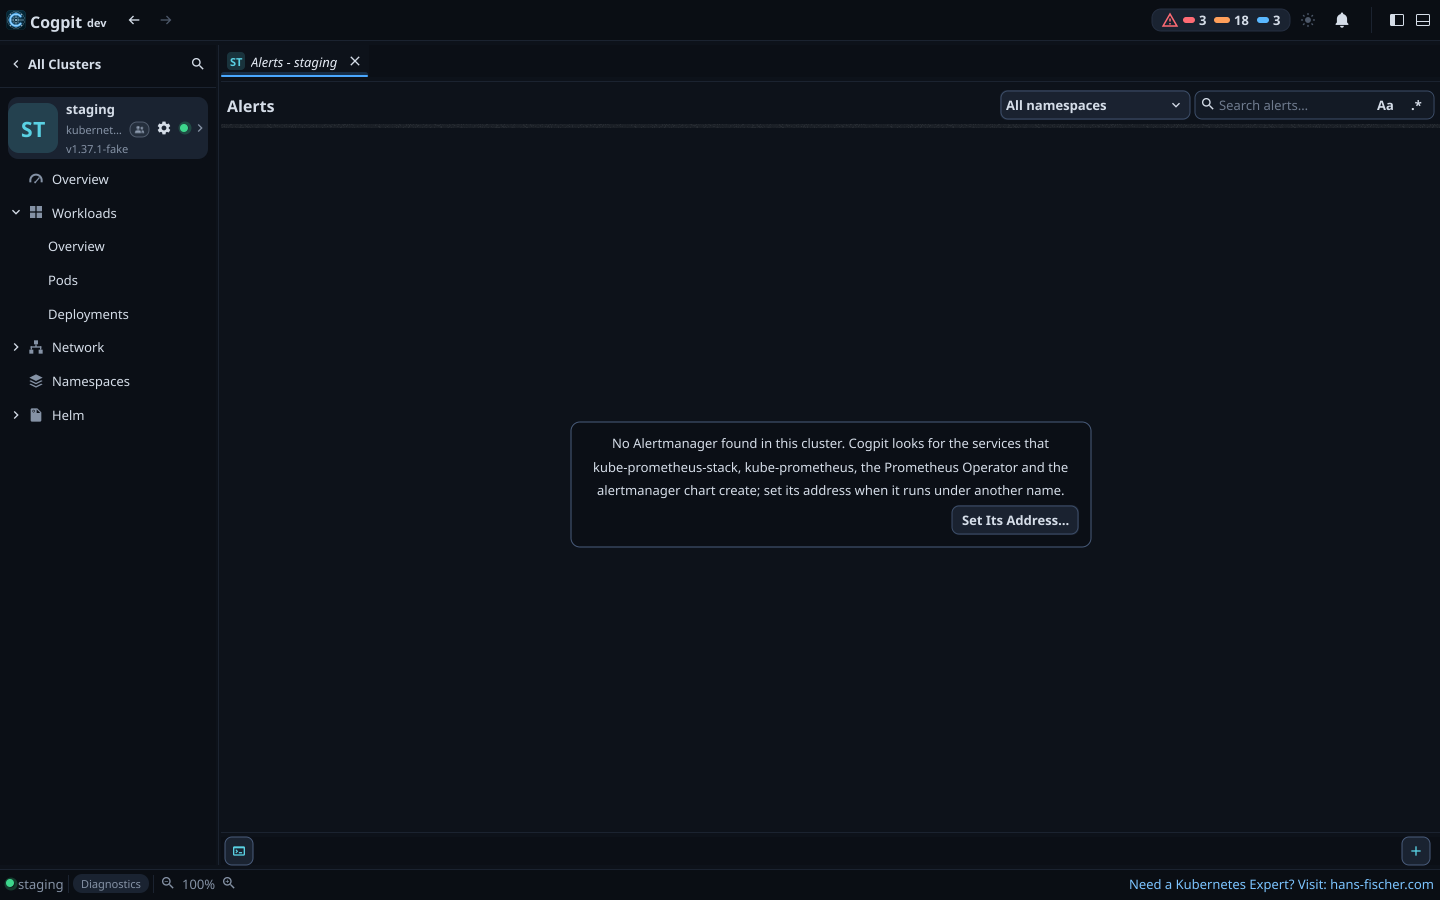
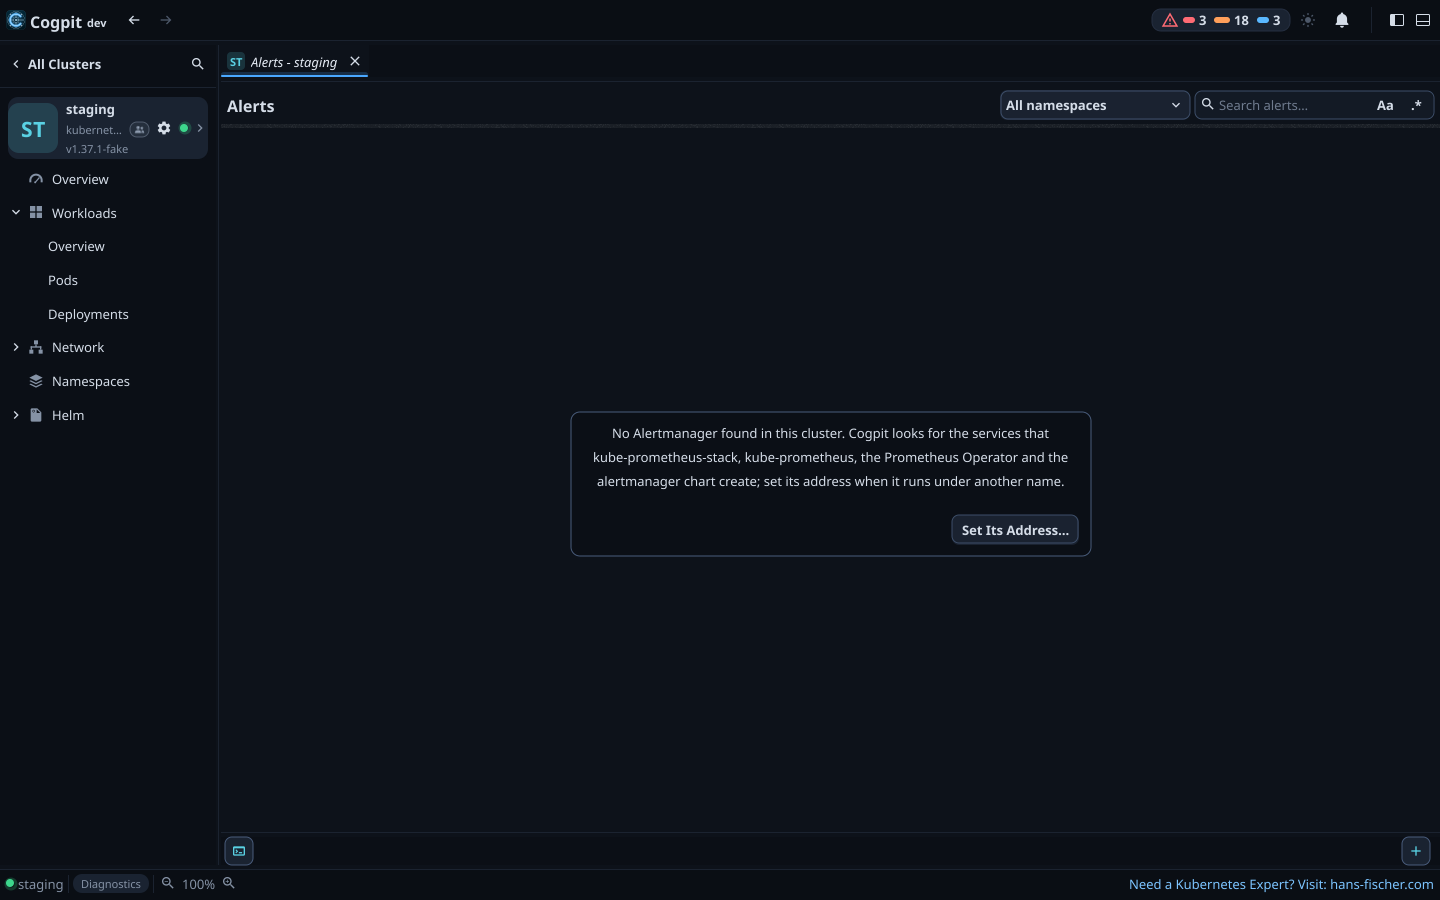
fix(alerts): a paragraph's space between the state box's text and its buttons

Changed region(s): [[0.4062, 0.4667, 0.75, 0.6222]]

diff --git a/internal/ui/fyneui/boardbox.go b/internal/ui/fyneui/boardbox.go
@@ -45,8 +45,8 @@ func boardBox(icon fyne.Resource, text string, tone fyne.ThemeColorName, buttons
 	for _, line := range wrapLines(text, inner, th.Size(theme.SizeNameText), fyne.TextStyle{}) {
 		rows = append(rows, container.NewCenter(newTextLine(line, tone, theme.SizeNameText, fyne.TextStyle{})))
 	}
-	if len(buttons) > 0 {
-		rows = append(rows, container.NewBorder(nil, nil, nil, container.NewHBox(buttons...)))
+	if len(buttons) > 0 { // a paragraph's space between the text and the buttons (the owner)
+		rows = append(rows, gapOf(th.Size(theme.SizeNameText)), container.NewBorder(nil, nil, nil, container.NewHBox(buttons...)))
 	}
 	body := container.New(textWidth{w: inner}, box(layout.NewCustomPaddedVBoxLayout(6), rows...))
 	bg := newSurface(colorSidebar)
